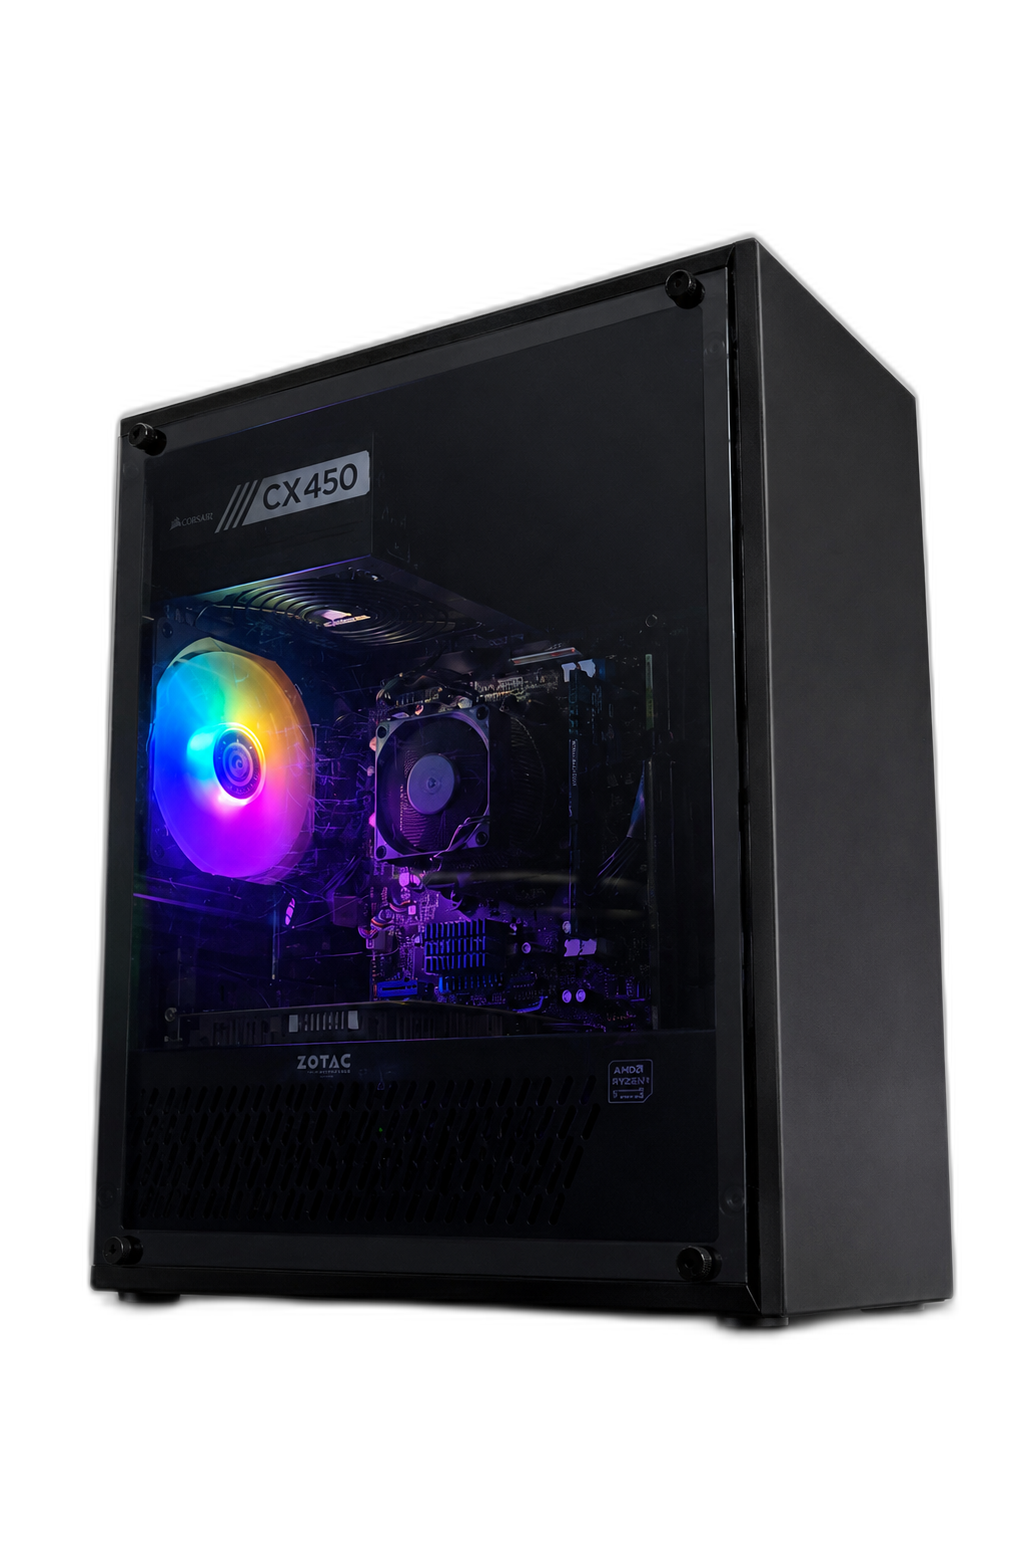
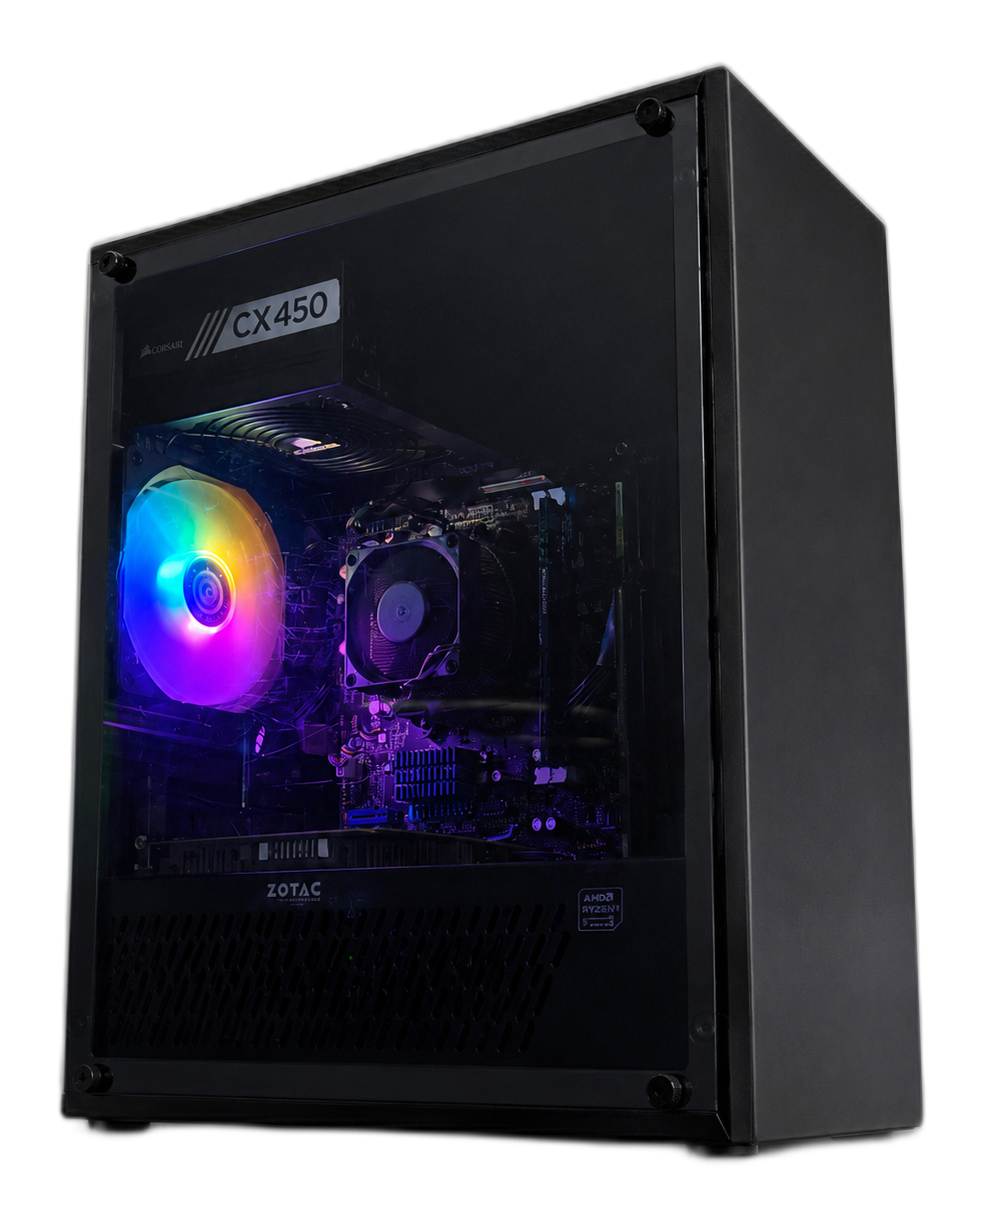
Trim generated product cutouts

Changed region(s): [[0.061, 0.0309, 0.9461, 0.9593], [0.6104, 0.4951, 0.6409, 0.557], [0.6409, 0.4332, 0.6714, 0.4642]]

diff --git a/.github/scripts/generate_cutouts.py b/.github/scripts/generate_cutouts.py
@@ -8,6 +8,8 @@ ROOT = Path(__file__).resolve().parents[2]
 DATA_FILE = ROOT / "data" / "products.json"
 OUTPUT_DIR = ROOT / "assets" / "generated"
 MAX_EDGE = 2200
+TRIM_PADDING_RATIO = 0.045
+TRIM_MIN_PADDING = 16
 
 
 def slugify(value):
@@ -30,6 +32,14 @@ def public_path(path):
     return "./" + path.relative_to(ROOT).as_posix()
 
 
+def is_generated_cutout(path):
+    try:
+        path.relative_to(OUTPUT_DIR)
+        return True
+    except ValueError:
+        return False
+
+
 def get_image_path(product):
     return local_path(product.get("image") or product.get("img"))
 
@@ -49,16 +59,15 @@ def find_jobs(products):
             continue
 
         cutout_path = get_cutout_path(product)
-        if cutout_path and cutout_path.exists():
+        if cutout_path and cutout_path.exists() and not is_generated_cutout(cutout_path):
             continue
 
         product_id = slugify(product.get("id") or product.get("title") or f"produto-{index + 1}")
         output_path = OUTPUT_DIR / f"{product_id}-cutout.png"
 
-        if output_path.exists():
+        if output_path.exists() and not cutout_path:
             product["cutout"] = public_path(output_path)
             changed = True
-            continue
 
         jobs.append((index, image_path, output_path))
 
@@ -86,6 +95,27 @@ def resize_for_processing(image):
     return image.resize((round(width * scale), round(height * scale)))
 
 
+def trim_transparent_padding(image):
+    from PIL import Image
+
+    if image.mode != "RGBA":
+        image = image.convert("RGBA")
+
+    bbox = image.getchannel("A").getbbox()
+    if not bbox:
+        return image
+
+    cropped = image.crop(bbox)
+    padding = max(TRIM_MIN_PADDING, round(max(cropped.size) * TRIM_PADDING_RATIO))
+    framed = Image.new(
+        "RGBA",
+        (cropped.width + padding * 2, cropped.height + padding * 2),
+        (0, 0, 0, 0),
+    )
+    framed.paste(cropped, (padding, padding), cropped)
+    return framed
+
+
 def generate_cutouts(products, jobs):
     from PIL import Image
     from rembg import new_session, remove
@@ -99,7 +129,7 @@ def generate_cutouts(products, jobs):
             if image.mode not in ("RGB", "RGBA"):
                 image = image.convert("RGBA")
             image = resize_for_processing(image)
-            output = remove(image, session=session)
+            output = trim_transparent_padding(remove(image, session=session))
             output.save(output_path)
         products[index]["cutout"] = public_path(output_path)
 